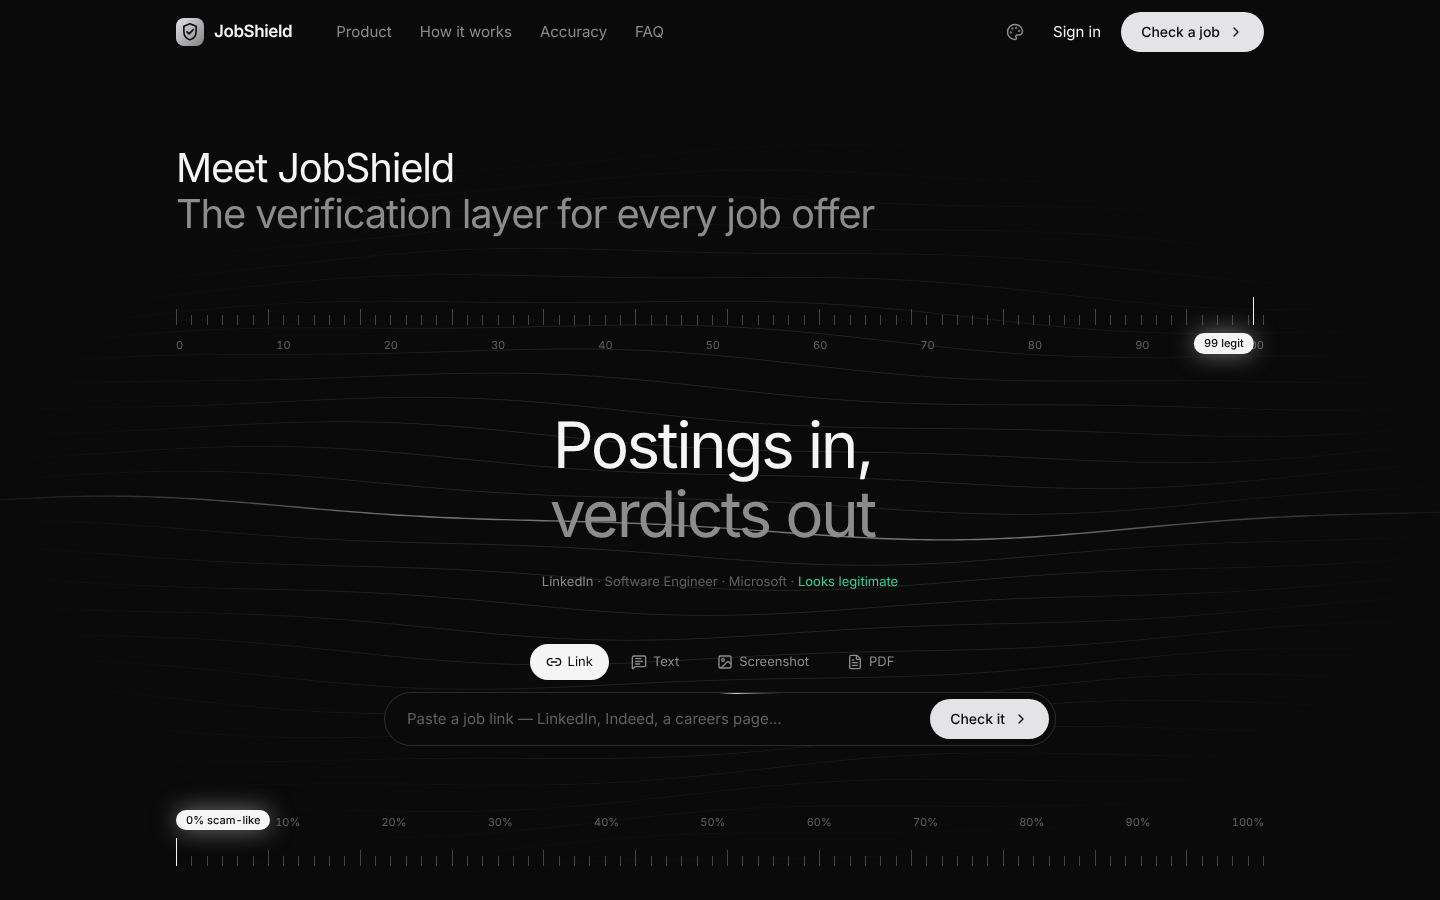
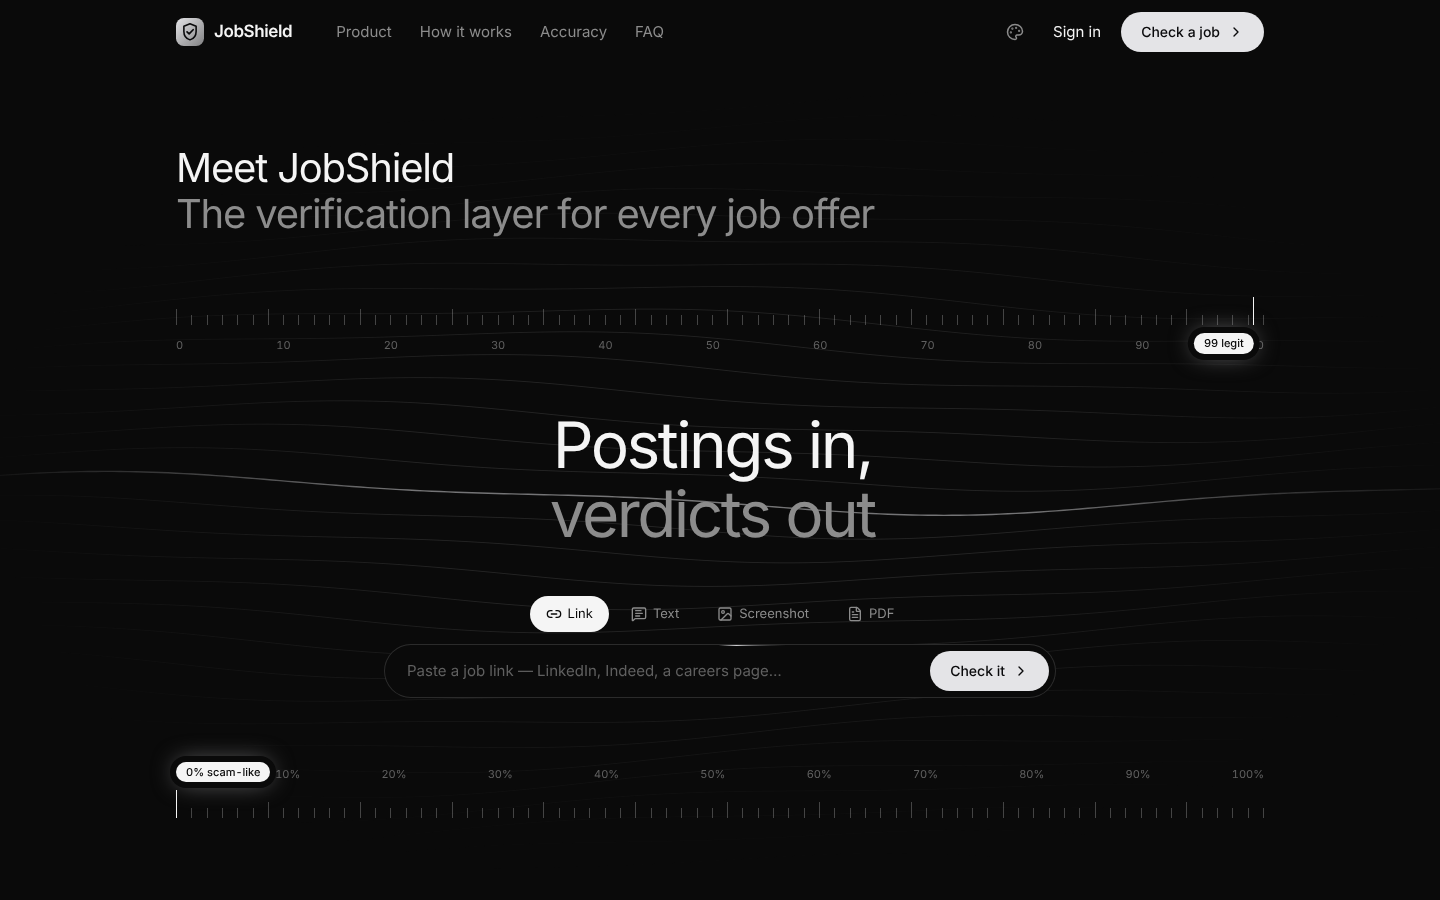
Final audit fixes, one-click start.bat and dark-by-default theme
- Urgency detector only flags pressure on the candidate (genuine postings
  saying "solve urgent customer problems" were marked as pressure tactics).
- Web-search employer matches are shown as unconfirmed warnings, not as a
  verified employer.
- start.bat is the single entry point: installs everything on first run
  (adds VC++ runtime, disk/RAM checks, install marker), launches after.
- Dark mode is the default for every new visitor, from the first paint.
- Removed the cycling caption under the hero headline; ruler pill no
  longer shows labels behind it.
- Updated SHAP, pipeline and prediction tests for the current modules.

Claude-Session: https://claude.ai/code/session_012R1uQCQ59fuJwwJHrzo2jF

diff --git a/frontend/src/pages/LandingPage.tsx b/frontend/src/pages/LandingPage.tsx
@@ -160,13 +160,6 @@ function Hero() {
             <SplitReveal text="Postings in," delay={0.35} className="block text-fg" />
             <SplitReveal text="verdicts out" delay={0.5} className="block text-fg-muted" />
           </p>
-          <div className="mt-6 h-6 text-[13px] text-fg-subtle">
-            <AnimatePresence mode="wait">
-              <motion.p key={i} initial={{ opacity: 0, y: 6 }} animate={{ opacity: 1, y: 0 }} exit={{ opacity: 0, y: -6 }} transition={{ duration: 0.35 }}>
-                <span className="text-fg-muted">{c.source}</span> · {c.who} · <span className={c.tone === 'safe' ? 'text-safe' : 'text-danger'}>{c.verdict}</span>
-              </motion.p>
-            </AnimatePresence>
-          </div>
           <HeroChecker />
         </div>
 

diff --git a/frontend/src/components/landing/Effects.tsx b/frontend/src/components/landing/Effects.tsx
@@ -296,7 +296,7 @@ export function Ruler({ value, labels, format, flip = false }: { value: number; 
       {labels.map((l) => (
         <span key={l}>{l}</span>
       ))}
-      <motion.span className="absolute -top-1 whitespace-nowrap rounded-full bg-fg px-2.5 py-0.5 text-[11px] font-medium text-bg shadow-[0_0_24px_rgb(var(--accent)/0.5)]" style={{ left, x: shift }}>
+      <motion.span className="absolute -top-1 whitespace-nowrap rounded-full bg-fg px-2.5 py-0.5 text-[11px] font-medium text-bg shadow-[0_0_24px_rgb(var(--accent)/0.5)] ring-[6px] ring-bg" style={{ left, x: shift }}>
         {text}
       </motion.span>
     </div>

diff --git a/frontend/index.html b/frontend/index.html
@@ -1,5 +1,5 @@
 <!doctype html>
-<html lang="en">
+<html lang="en" class="dark" data-accent="mono">
   <head>
     <meta charset="UTF-8" />
     <link rel="icon" type="image/svg+xml" href="/favicon.svg" />

diff --git a/ai_service/tests/test_pipeline_integration.py b/ai_service/tests/test_pipeline_integration.py
@@ -1,65 +1,65 @@
-"""Real end-to-end run of the full pipeline (Modules 1-7) against the SRS's
-own worked examples (Appendix B) — no mocking. Requires a trained model
-(models_store/) and a precomputed SHAP cache to exist; these are the only
-tests in the suite that depend on both being present.
-"""
+"""Real end-to-end run of the full pipeline with the shipped classifier — no
+mocking of the model. The reasoning LLM is switched off so the test is
+deterministic and runs without Ollama; network lookups are stubbed."""
 import pytest
 
-from ai_service.pipeline import run_analysis_pipeline
+from ai_service import pipeline
+from ai_service.verification import company_resolver, verify
 
 pytestmark = pytest.mark.slow
 
-FRAUDULENT_AD_FIELDS = {
-    "title": "",
-    "company_profile": "",
-    "description": ("URGENT FACULTY REQUIREMENT!!! Salary: Rs 2,00,000 per month. "
-                     "No experience required. Registration Fee: Rs 500. "
-                     "Contact through WhatsApp only."),
-    "requirements": "",
-    "benefits": "",
-    "location": "",
-    "salary_range": "",
-    "employment_type": "",
+
+@pytest.fixture(autouse=True)
+def offline(monkeypatch):
+    monkeypatch.setattr(verify, "domain_age_days", lambda d, timeout=6.0: None)
+    monkeypatch.setattr(company_resolver, "_from_wikidata", lambda name: None)
+    monkeypatch.setattr(company_resolver, "_from_web_search", lambda name: None)
+    company_resolver.resolve_company.cache_clear()
+
+
+FRAUDULENT = {
+    "description": (
+        "URGENT FACULTY REQUIREMENT!!! Salary: Rs 2,00,000 per month. No experience required. "
+        "Registration Fee: Rs 500. Contact through WhatsApp only."
+    )
 }
 
-LEGITIMATE_AD_FIELDS = {
-    "title": "Assistant Professor",
-    "company_profile": "Keshav Memorial Institute of Technology (KMIT) is an established "
-                        "engineering college in Hyderabad, affiliated to Osmania University.",
-    "description": "KMIT invites applications for the post of Assistant Professor in "
-                    "Computer Science. Visit https://kmit.in/careers for details.",
-    "requirements": "M.Tech or Ph.D in Computer Science or a related discipline.",
-    "benefits": "Health insurance, provident fund, and research support.",
-    "location": "Hyderabad, India",
-    "salary_range": "",
+LEGITIMATE_MICROSOFT_ON_LINKEDIN = {
+    "title": "Software Engineer",
+    "company_profile": "Microsoft",
+    "description": (
+        "Our team builds client and service components within Intune. You will design, build and "
+        "operate services used by millions of users. Required: 3+ years of experience with C#, C++ "
+        "or Java, and a BS in Computer Science or related field."
+    ),
+    "location": "Cambridge, MA",
     "employment_type": "Full-time",
+    "_source": {
+        "url": "https://www.linkedin.com/jobs/view/4480367579",
+        "host": "www.linkedin.com",
+        "domain": "linkedin.com",
+        "type": "job_board",
+        "platform": "LinkedIn",
+        "company_name": "Microsoft",
+        "company_page": "https://www.linkedin.com/company/microsoft",
+    },
 }
 
 
-def test_fraudulent_worked_example_end_to_end():
-    result = run_analysis_pipeline(FRAUDULENT_AD_FIELDS)
-
-    assert result["predictionLabel"] == "fraudulent"
-    assert result["fraudProbability"] > 0.5
-    assert result["riskCategory"] in {"High", "Critical"}
-    assert result["decision"]["recommendation"] in {
-        "Do NOT apply.",
-        "Manual verification required before proceeding.",
-    }
-    assert len(result["decision"]["warnings"]) > 0
-
-    # NFR-19: every prediction gets both a global and local explanation
-    assert result["shapExplanation"]["type"] == "shap_global"
-    assert len(result["shapExplanation"]["features"]) > 0
-    assert result["limeExplanation"]["type"] == "lime_local"
-    assert len(result["limeExplanation"]["features"]) > 0
+def test_fraudulent_example_end_to_end():
+    result = pipeline.run_analysis_pipeline(FRAUDULENT, input_type="text", use_llm=False)
+    assert result["verdict"] == "fraudulent"
+    assert result["legitimacyScore"] <= 15
+    assert result["signals"]["language"]["available"] is True
+    assert result["explanation"]["method"] == "shap"
+    assert any("fee" in r.lower() for r in result["redFlags"])
+    assert len(result["reasoning"]) >= 3
 
 
-def test_legitimate_worked_example_end_to_end():
-    result = run_analysis_pipeline(LEGITIMATE_AD_FIELDS)
-
-    assert result["predictionLabel"] == "legitimate"
-    assert result["fraudProbability"] < 0.5
-    assert result["riskCategory"] == "Low"
-    assert result["trustBand"] == "Highly Trustworthy"
-    assert result["decision"]["warnings"] == []
+def test_legitimate_example_end_to_end():
+    result = pipeline.run_analysis_pipeline(LEGITIMATE_MICROSOFT_ON_LINKEDIN, input_type="url", use_llm=False)
+    assert result["verdict"] == "legitimate"
+    assert result["legitimacyScore"] >= 95
+    assert result["company"]["website"] == "https://microsoft.com"
+    assert result["source"]["platform"] == "LinkedIn"
+    assert result["redFlags"] == []

diff --git a/ai_service/tests/test_shap_explainer.py b/ai_service/tests/test_shap_explainer.py
@@ -6,10 +6,10 @@ from ai_service.xai import shap_explainer
 FRAUD_KEYWORDS = {"urgent", "fee", "whatsapp"}
 
 
-def fake_predict_proba(texts: list[str]) -> np.ndarray:
+def fake_predict_proba(texts) -> np.ndarray:
     probs = []
     for text in texts:
-        hits = sum(1 for word in text.lower().split() if word.strip(".,!") in FRAUD_KEYWORDS)
+        hits = sum(1 for word in str(text).lower().split() if word.strip(".,!") in FRAUD_KEYWORDS)
         fraud_p = min(0.95, 0.05 + 0.3 * hits)
         probs.append([1 - fraud_p, fraud_p])
     return np.array(probs)
@@ -20,38 +20,43 @@ def patch_predict(monkeypatch):
     monkeypatch.setattr(shap_explainer, "predict_proba_batch", fake_predict_proba)
 
 
-def test_compute_global_shap_importance_ranks_fraud_keywords_highest():
-    sample_texts = [
+def test_local_explanation_attributes_score_to_fraud_words():
+    result = shap_explainer.explain_prediction("urgent hiring please pay the registration fee on whatsapp today", max_evals=200)
+    assert result["method"] == "shap"
+    top = [w["term"] for w in result["words"][:3]]
+    assert set(top) == FRAUD_KEYWORDS
+    assert all(w["weight"] > 0 for w in result["words"][:3])
+
+
+def test_local_explanation_is_additive():
+    """Shapley values sum to (score - baseline)."""
+    text = "urgent fee whatsapp"
+    result = shap_explainer.explain_prediction(text, max_evals=200)
+    total = sum(w["weight"] for w in result["words"])
+    assert result["outputValue"] == pytest.approx(fake_predict_proba([text])[0, 1], abs=0.01)
+    assert result["baseValue"] + total == pytest.approx(result["outputValue"], abs=0.02)
+
+
+def test_stopwords_are_not_reported():
+    result = shap_explainer.explain_prediction("the and for with urgent", max_evals=100)
+    assert {w["term"] for w in result["words"]} <= {"urgent"}
+
+
+def test_global_importance_ranks_fraud_keywords_highest():
+    texts = [
         "urgent hiring pay a registration fee now",
         "contact us on whatsapp only for urgent processing",
         "a normal job posting with clear requirements",
         "we are hiring a software engineer for our team",
     ]
-    result = shap_explainer.compute_global_shap_importance(sample_texts, top_n=10)
-
-    assert result["type"] == "shap_global"
-    assert result["target_class"] == "fraudulent"
-    assert result["sample_size"] == len(sample_texts)
-    assert len(result["features"]) > 0
-
-    top_words = {row["feature"] for row in result["features"][:5]}
-    assert top_words & FRAUD_KEYWORDS
-
-    # Ranked descending by mean absolute impact
-    impacts = [row["mean_abs_impact"] for row in result["features"]]
-    assert impacts == sorted(impacts, reverse=True)
+    result = shap_explainer.compute_global_importance(texts, top_n=10, max_evals=100)
+    assert result["method"] == "shap_global"
+    assert result["sampleSize"] == len(texts)
+    assert {row["term"] for row in result["words"][:3]} & FRAUD_KEYWORDS
 
 
-def test_precompute_and_cache_writes_and_reloads(tmp_path, monkeypatch):
+def test_cached_global_explanation_round_trip(tmp_path, monkeypatch):
     monkeypatch.setattr(shap_explainer, "resolve_current_model_dir", lambda: tmp_path)
-    monkeypatch.setattr(
-        shap_explainer,
-        "_sample_texts",
-        lambda n: ["urgent fee whatsapp"] * (n // 2) + ["normal legitimate posting"] * (n - n // 2),
-    )
-
-    cache_path = shap_explainer.precompute_and_cache(sample_size=4, top_n=5)
-    assert cache_path.exists()
-
-    loaded = shap_explainer.get_cached_global_explanation()
-    assert loaded["type"] == "shap_global"
+    assert shap_explainer.get_cached_global_explanation() is None
+    (tmp_path / shap_explainer.CACHE_FILENAME).write_text('{"method": "shap_global", "words": []}')
+    assert shap_explainer.get_cached_global_explanation()["method"] == "shap_global"

diff --git a/ai_service/verification/verify.py b/ai_service/verification/verify.py
@@ -134,8 +134,11 @@ def verify_posting(fields: dict, text: str, input_type: str, extra_company_hint:
         checks.append(_check("source", "Posting source", "warn", f"Published on {source_domain}, which is not a recognised job board or the employer's official domain."))
 
     # 2. Who the employer is
-    if company:
-        how = {"registry": "a widely recognised employer", "wikidata": "a registered organisation with a public record", "web_search": "found via web search"}[company["source"]]
+    if company and company["source"] == "web_search":
+        # A name match in search results may be a different company.
+        checks.append(_check("employer", "Employer identified", "warn", f"“{company['name']}” has no public company record. A possible website, {company['website']}, was found by web search, but it couldn’t be confirmed to be the same company."))
+    elif company:
+        how = {"registry": "a widely recognised employer", "wikidata": "a registered organisation with a public record"}[company["source"]]
         checks.append(_check("employer", "Employer identified", "pass", f"{company['name']} — {how}. Official site: {company['website']}"))
     elif claimed_name:
         checks.append(_check("employer", "Employer identified", "warn", f"The posting names “{claimed_name}”, but no official website or public record could be found for it."))

diff --git a/ai_service/tests/test_fusion.py b/ai_service/tests/test_fusion.py
@@ -127,3 +127,16 @@ def test_works_without_classifier_or_llm():
     result, _ = run({"description": "Pay a registration fee of Rs 2000 for the training kit. WhatsApp only."}, "text")
     assert result["verdict"] == "fraudulent"
     assert all(f["label"] not in ("Language analysis", "Reasoning engine") for f in result["factors"])
+
+
+def test_web_search_match_is_a_warning_not_a_verified_employer(monkeypatch):
+    monkeypatch.setattr(
+        company_resolver,
+        "_from_web_search",
+        lambda name: {"name": name, "website": "https://globaltech.ind.in", "official_domains": ["globaltech.ind.in"], "source": "web_search", "confidence": 0.75, "well_known": False},
+    )
+    company_resolver.resolve_company.cache_clear()
+    verification = verify.verify_posting({}, "Global Tech Solutions is hiring remote data analysts.", "text")
+    employer = next(c for c in verification["checks"] if c["id"] == "employer")
+    assert employer["status"] == "warn"
+    assert verification["company"]["verified"] is False

diff --git a/ai_service/tests/test_detectors.py b/ai_service/tests/test_detectors.py
@@ -165,3 +165,18 @@ def test_legitimate_posting_triggers_no_modern_scam_patterns():
     signals = detect_all_signals(LEGIT_FIELDS)
     for key in ("money_movement_request", "sensitive_info_request", "task_based_scam", "chat_app_interview"):
         assert signals[key] is False
+
+
+@pytest.mark.parametrize(
+    "text, expected",
+    [
+        ("Collaborates with other engineers to solve urgent customer problems.", False),
+        ("Handle urgent support tickets calmly and professionally.", False),
+        ("URGENT hiring! Work from home.", True),
+        ("Urgent requirement for data entry operators.", True),
+        ("We are hiring urgently, only 10 seats left.", True),
+    ],
+)
+def test_urgency_only_flags_pressure_on_the_candidate(text, expected):
+    """Regression: genuine postings describing urgent *work* were flagged as pressure tactics."""
+    assert detect_urgent_or_spam_wording({"description": text}) is expected

diff --git a/ai_service/tests/test_predict.py b/ai_service/tests/test_predict.py
@@ -5,16 +5,14 @@ from ai_service.bert_model import predict
 
 
 def test_resolve_current_model_dir_raises_clear_error_when_untrained(monkeypatch, tmp_path):
-    monkeypatch.setattr(predict, "MODELS_STORE_DIR", tmp_path)
+    monkeypatch.setattr(predict, "CLASSIFIER_DIR", tmp_path)
     with pytest.raises(predict.ModelNotTrainedError):
         predict.resolve_current_model_dir()
 
 
 @pytest.mark.slow
 class TestPredictProbaBatch:
-    """Runs against the real trained model (models_store/) — these only pass
-    once `python -m ai_service.bert_model.train_model` has produced one, so
-    they're excluded from CI (which has no GPU/time budget to train one)."""
+    """Runs against the shipped ONNX classifier (models_store/classifier/)."""
 
     def test_returns_correct_shape(self):
         probs = predict.predict_proba_batch(["a normal job posting", "urgent pay a fee now"])

diff --git a/ai_service/signals/lexicons.py b/ai_service/signals/lexicons.py
@@ -41,7 +41,12 @@ WHATSAPP_KEYWORDS = [
 ]
 
 URGENCY_KEYWORDS = [
-    r"\burgent\b", r"\burgently\b", r"immediate\s*joining", r"apply\s*now",
+    # Urgency aimed at the candidate — not "solve urgent customer problems"
+    # in a genuine job description.
+    r"urgent(?:ly)?\s+(?:hiring|requirement|opening|vacanc(?:y|ies)|recruitment|position|need(?:ed)?\s+(?:for|of)?)",
+    r"(?:hiring|required|requirement|needed|join|apply|joining)\s+urgent(?:ly)?",
+    r"(?:^|\n)\s*urgent\b", r"\burgent\s*[!:]",
+    r"immediate\s*joining", r"apply\s*now",
     r"hurry\s*up", r"limited\s*seats", r"act\s*fast", r"only\s*\d+\s*seats?\s*left",
     r"don'?t\s*miss\s*(?:this|out)",
 ]

diff --git a/README.md b/README.md
@@ -9,14 +9,16 @@ verdict step by step.
 ## Quick start (Windows)
 
 1. Download the repository (Code → Download ZIP) and unzip it.
-2. Double-click **`setup.bat`**.
+2. Double-click **`start.bat`**. That's the only step.
 
-It installs anything missing (Python, Node.js, Ollama), every package, the local reasoning model
-(`qwen3.5:4b`, ~3 GB), builds the website, and opens **http://localhost:5001**. The first run
-takes 10–30 minutes; afterwards use **`start.bat`** to start in seconds. No MongoDB install is
-needed — an embedded database stores accounts and history in `backend/.data/`.
+On the first run it installs whatever the PC is missing — Python 3.12, Node.js, the Microsoft
+Visual C++ runtime, Ollama and the local reasoning model (`qwen3.5:4b`, ~3 GB) — plus every
+package, the headless browser and an embedded database, then opens **http://localhost:5001**.
+No admin rights are needed; it uses `winget` and falls back to direct downloads. The first run
+takes 10–30 minutes (mostly downloads); every later run starts in seconds.
 
-macOS / Linux: `./setup.sh` (needs Python 3.10–3.13 and Node.js 20+).
+Needs Windows 10/11, ~8 GB free disk and 8 GB RAM (16 GB recommended). macOS / Linux:
+`./setup.sh` (needs Python 3.10–3.13 and Node.js 20+).
 
 ## How a verdict is made
 
